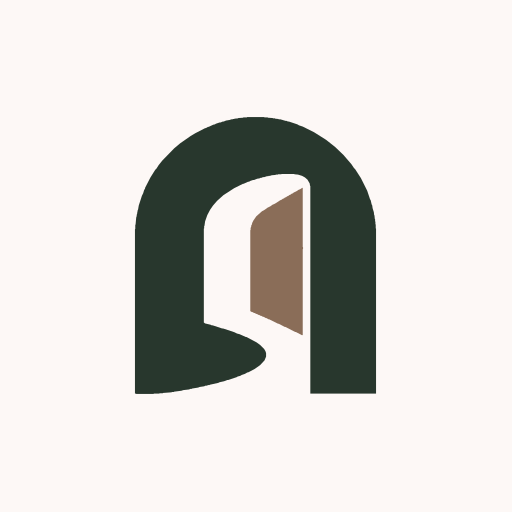
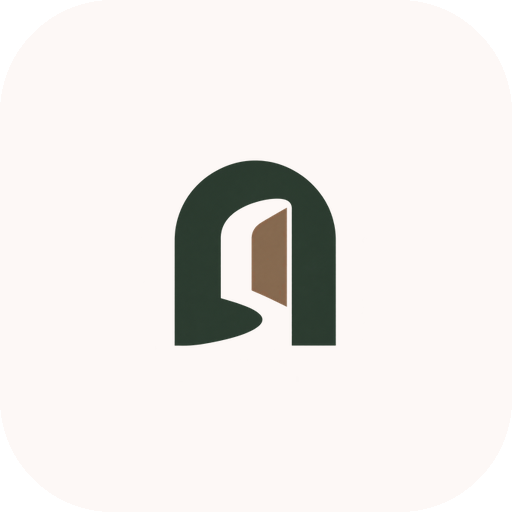
feat(brand): adopt the approved raster brand kit (replaces the SVG trace)
The raster kit supersedes the traced vectors: its README states the SVG
traces "changed the feel of the curves and no longer matched the approved
artwork" and asks that the mark not be re-vectorized. The difference is
material - the silhouettes differ by 28.7% (smoother arch, better
proportioned inner book form).

So the mark is now raster everywhere:
- in-app: transparent full-colour PNG symbol (512 for the hero, 128 for the
  sidebar), per the kit's "prefer transparent PNGs for product UI"
- favicon.ico: frames packed from the kit's own 16/32/48 PNGs, verified
  byte-identical per frame
- favicon-16/32/48.png, apple-touch-icon (180), PWA 192/512 and maskable 512
  taken straight from the kit's paper-tile exports
- favicon.svg and nostos-symbol-fullcolor.svg deleted (kit forbids SVG), and
  the now-unneeded /*.svg service-worker cache entry reverted
- index.html declares the PNG icon sizes plus the ico fallback

Every kit icon is a Paper (#FDF8F6) tile, which is the kit's prescribed
favicon treatment and keeps the mark legible on both light and dark browser
chrome - the problem raised against the previous kit.

No CSS, tokens or theme-color changed.

Changed region(s): [[0.25, 0.2188, 0.75, 0.7812]]

diff --git a/Nostos.Frontend/src/index.html b/Nostos.Frontend/src/index.html
@@ -7,7 +7,12 @@
     <meta name="viewport" content="width=device-width, initial-scale=1, viewport-fit=cover" />
     <meta name="theme-color" content="#28372D" />
     <link rel="manifest" href="manifest.webmanifest" />
-    <link rel="icon" type="image/svg+xml" href="favicon.svg" />
+    <!-- The raster brand kit prescribes paper-tile icons for favicon contexts:
+         the mark sits on a Paper (#FDF8F6) tile, so it stays legible on both
+         light and dark browser chrome. -->
+    <link rel="icon" type="image/png" sizes="32x32" href="favicon-32.png" />
+    <link rel="icon" type="image/png" sizes="16x16" href="favicon-16.png" />
+    <link rel="icon" type="image/png" sizes="48x48" href="favicon-48.png" />
     <link rel="icon" type="image/x-icon" href="favicon.ico" />
     <link rel="apple-touch-icon" sizes="180x180" href="apple-touch-icon.png" />
   </head>

diff --git a/Nostos.Frontend/src/app/library/sidebar-collections/sidebar-collections.component.html b/Nostos.Frontend/src/app/library/sidebar-collections/sidebar-collections.component.html
@@ -5,10 +5,10 @@
 <nav class="sidebar" [class.collapsed]="!expanded()" [class.collapsing]="collapseSidebarProgress()">
   <div class="sidebar-header">
     @if (expanded()) {
-      <img class="brand-icon" src="nostos-symbol-fullcolor.svg" alt="logo" />
+      <img class="brand-icon" src="nostos-symbol-fullcolor-128.png" alt="logo" />
       <div class="brand" animate.enter="fade-in">Collections</div>
     } @else {
-      <img class="brand-icon" src="nostos-symbol-fullcolor.svg" alt="logo" />
+      <img class="brand-icon" src="nostos-symbol-fullcolor-128.png" alt="logo" />
     }
   </div>
 

diff --git a/Nostos.Frontend/src/app/home/home.component.html b/Nostos.Frontend/src/app/home/home.component.html
@@ -1,7 +1,7 @@
 <main class="hero-wrapper">
   <div class="hero-content">
     <div class="brand-mark">
-      <img src="nostos-symbol-fullcolor.svg" alt="Nostos Logo" id="nostos-logo" width="120" height="120" />
+      <img src="nostos-symbol-fullcolor-512.png" alt="Nostos Logo" id="nostos-logo" width="120" height="120" />
 
       <!-- <svg width="64" height="64" viewBox="0 0 24 24" fill="none" stroke="currentColor" stroke-width="1"
         stroke-linecap="round" stroke-linejoin="round">

diff --git a/Nostos.Frontend/src/app/home/home.html b/Nostos.Frontend/src/app/home/home.html
@@ -2,7 +2,7 @@
   <div class="hero-content">
     <div class="brand-mark">
       <img
-        src="nostos-symbol-fullcolor.svg"
+        src="nostos-symbol-fullcolor-512.png"
         alt="Nostos Logo"
         id="nostos-logo"
         width="120"
